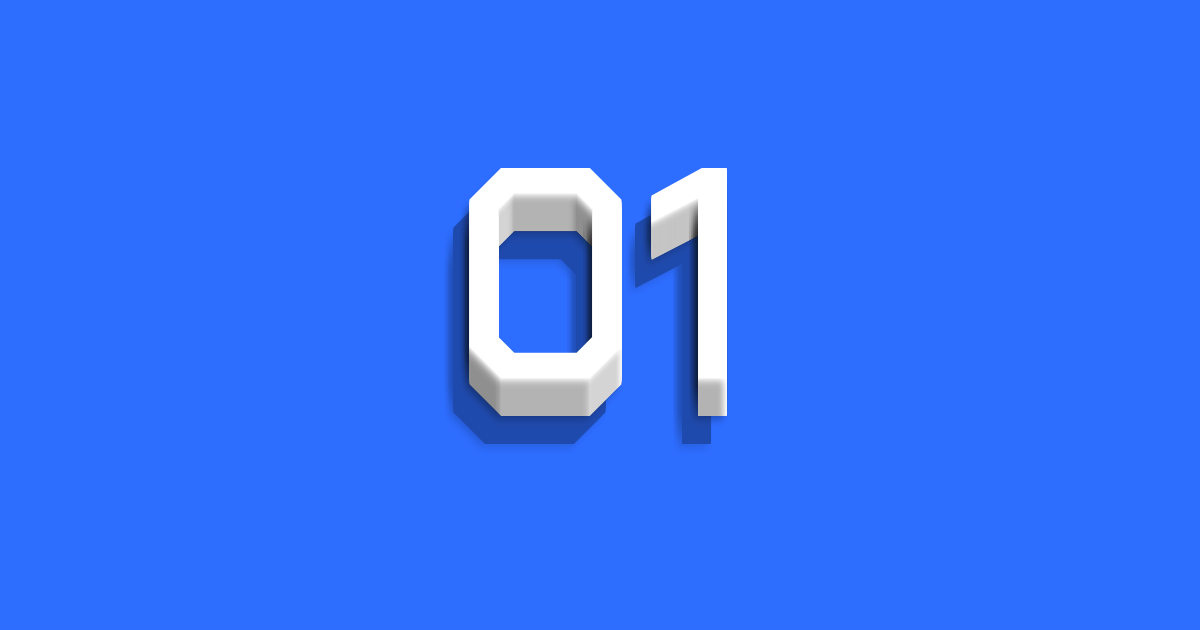
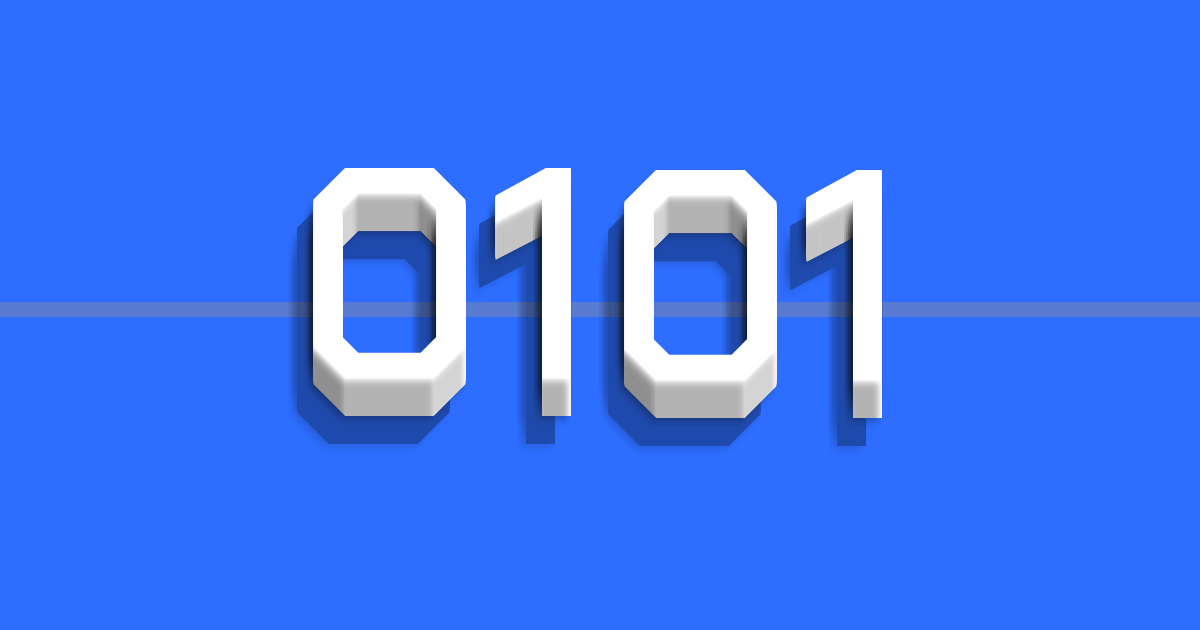
post of database added

Changed region(s): [[0.0, 0.2413, 1.0, 0.7238]]

diff --git a/_posts/2024/database/2024-07-13-database-design-guide.md b/_posts/2024/database/2024-07-13-database-design-guide.md
@@ -1,0 +1,43 @@
+---
+title: An Ultimate Guide to Database Design
+date: 2024-07-13 17:20:00 -0500
+categories: [Databases]
+tags: [database, database-design]     # TAG names should always be lowercase
+image: /assets/img/posts/database-design/cover.png
+alt: "A Practical Introduction to Cybersecurity"
+---
+As a guy who works in the computer science area, there will be a lot of times that you come up with a small idea for a program and you want to do it by yourself. One of the important parts of each computer software is its data. How do you design this data system? Do we really need a system or database for storing data? In this post, I will introduce a step-by-step approach that helps you in designing a database for your software.
+
+## 0. Understanding Data Models
+
+A **data model** is an abstract model that organizes data elements and standardizes how they relate to one another and to properties of the real world entities. Among the most important models are the relational model, the document model, and the entity-relationship model. These models are essential because they help us structure our data in a way that makes it both efficient and meaningful for specific applications.
+
+## 1. Do You Need a Database?
+
+Deciding whether you need a database depends on the scale and purpose of your application. For small, single-user applications with non-critical data, simple file storage or even manual record-keeping might be sufficient. However, for applications that require handling complex queries, multiple users, data integrity, and security, a database is essential.
+
+## 2. Design Your Entity-Relationship Diagram
+
+An **Entity-Relationship (ER) Diagram** is a type of structural diagram for use in database design. It provides a graphical representation of the entities, the relationships between them, and their attributes. Consider an online shopping platform as an example:
+
+- **Entities**: Products, Customers, Orders.
+- **Relationships**: Customers place Orders; Orders contain Products.
+
+Start by identifying the entities and their relationships. Then, determine the attributes of each entity.
+
+## 3. Map It to Relational Model
+
+To translate your ER diagram into a **relational model**, you convert entities into tables, relationships into foreign keys, and attributes into columns within these tables. Using our online shopping example:
+- **Customer Table**: CustomerID, Name, Address.
+- **Product Table**: ProductID, Name, Price.
+- **Order Table**: OrderID, CustomerID (foreign key), OrderDate.
+
+## 4. Implementation
+
+Once you have your relational model, the next step is to implement it in a database management system (DBMS) like MySQL, PostgreSQL, or SQLite. This involves creating the tables according to the relational schema and then writing SQL queries to interact with the data.
+
+## 5. Maintenance and Improvement
+
+To improve the database's efficiency and reduce data redundancy, apply **normalization** techniques. Normalization involves decomposing a table into less redundant (and more independent) tables but still containing the same information. It helps in maintaining data integrity and optimizing query performance.
+
+By following these steps, you can design a robust database system tailored to your software’s specific needs.

diff --git a/_posts/2024/papers/2024-07-03-understanding-binary-function-similarity.md b/_posts/2024/papers/2024-07-03-understanding-binary-function-similarity.md
@@ -1,8 +1,8 @@
 ---
-title: Understanding Binary Function Similarity Problem
+title: Understanding Binary Function Similarity
 date: 2024-07-05 15:20:00 -0500
 categories: [Papers, Reverse Engineering]
-tags: [binary function similarity problem]     # TAG names should always be lowercase
+tags: [binary function similarity]     # TAG names should always be lowercase
 image: /assets/img/posts/paper-binary-comparison/cover.png
 alt: "How Machine Learning Is Solving the Binary Function Similarity Problem?"
 math: true
